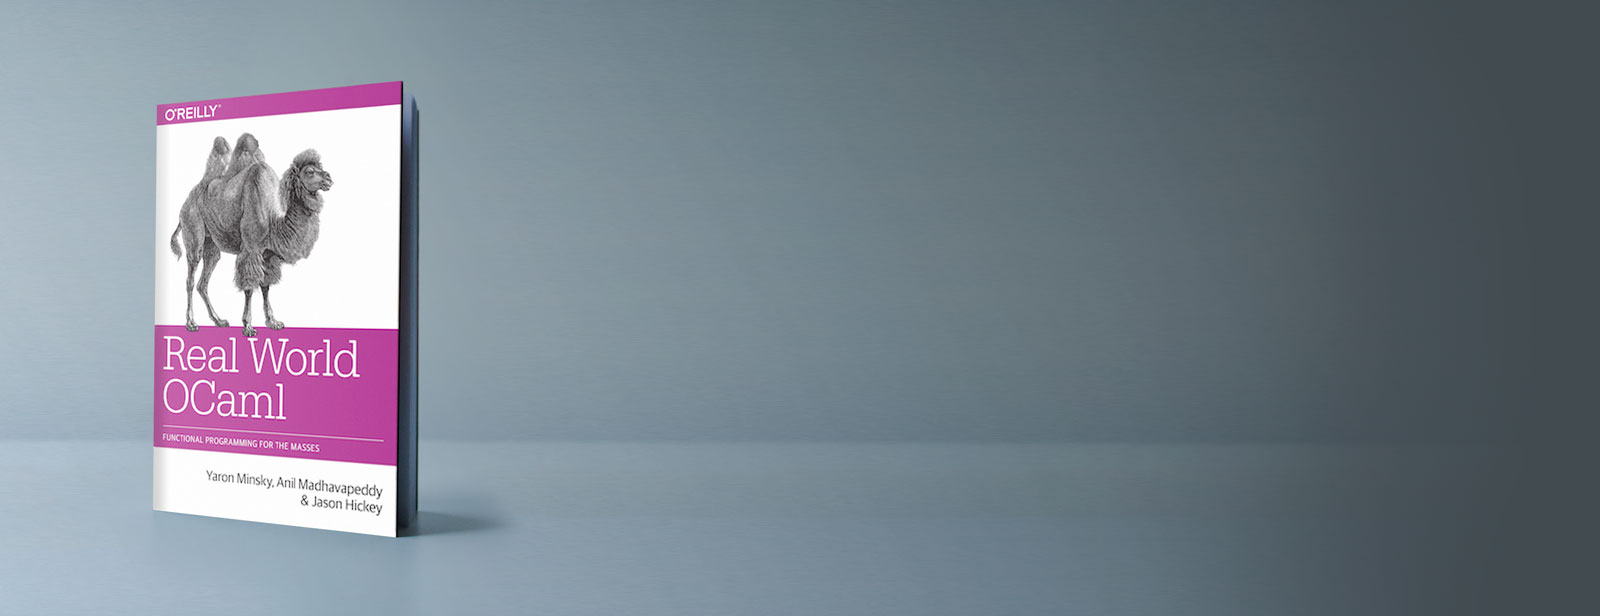
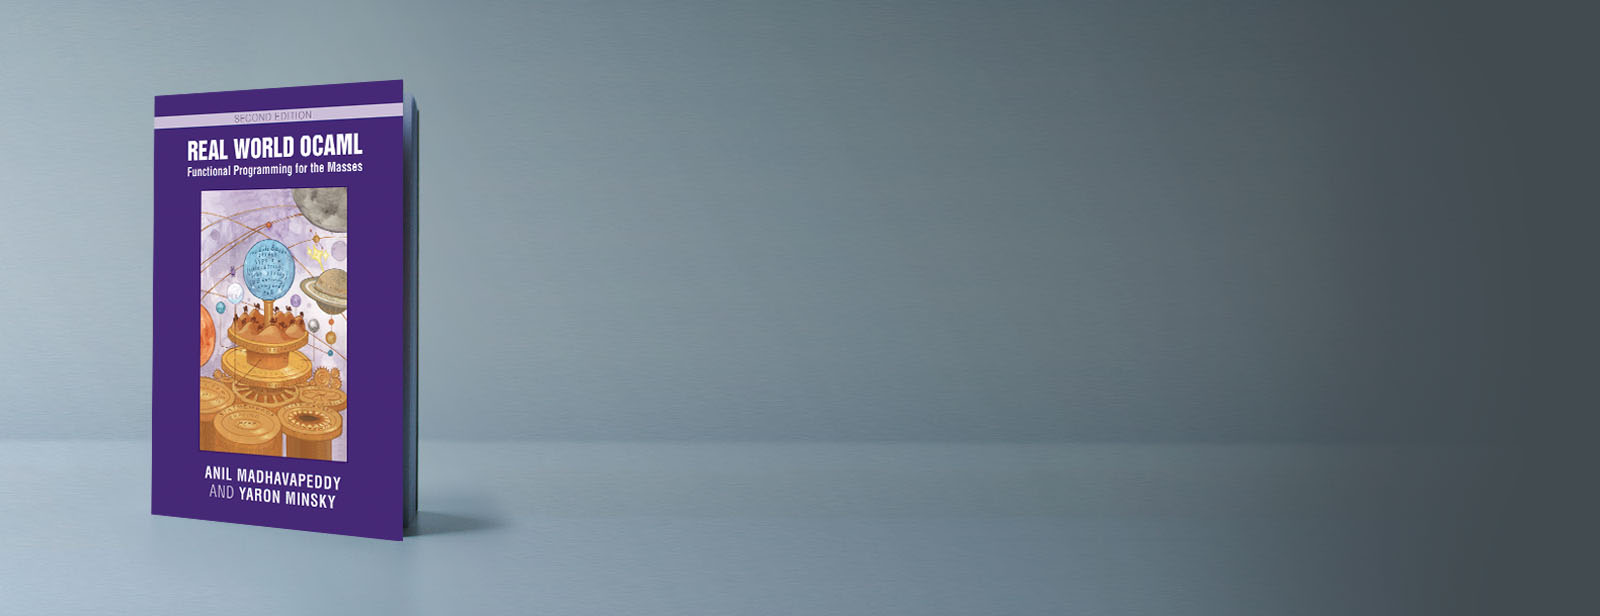
update site for 2nd ed

Changed region(s): [[0.0938, 0.1234, 0.25, 0.8945]]

diff --git a/book/index.html b/book/index.html
@@ -57,15 +57,15 @@
         <div class="author-meta">
           <h4>Anil Madhavapeddy</h4>
 
-          <p>Anil Madhavapeddy is an Associate Professor at the
+          <p>Anil Madhavapeddy is Professor of Planetary Computing at the
            Department of Computer Science and Technology in the
            University of Cambridge, and a Fellow of Pembroke
            College. He has worked in industry (NetApp, Citrix, Intel),
            academia (Cambridge, Imperial, UCLA) and startups
            (XenSource, Unikernel Systems, Docker) over the past two
-           decades. At Cambridge, he directs the OCaml Labs research
-           group which delves into the intersection of functional
-           programming and systems.  He is a long-time maintainer on
+           decades. At Cambridge, is a member of the Energy and Environment
+           Group which delves into the intersection of technology and
+           conservation.  He is a long-time maintainer on
            open-source projects ranging from OCaml, OpenBSD, Xen and
            Docker, and a seasoned entrepreneur who advises companies
            and foundations on technology strategy.</p>
@@ -79,8 +79,8 @@
     <div class="extras-holder">
       <div class="extras">
         <a href="toc.html"><h5>Read Online for Free</h5></a>
-<!--        <a href="#"><h5>Purchase from Amazon</h5></a> -->
-<!--        <a href="#"><h5>Purchase from O'Reilly</h5></a> -->
+        <a href="https://www.cambridge.org/core/books/real-world-ocaml-functional-programming-for-the-masses/052E4BCCB09D56A0FE875DD81B1ED571"><h5>Purchase from Cambridge</h5></a>
+        <a href="https://www.amazon.com/Real-World-OCaml-Functional-Programming/dp/100912580X/"><h5>Purchase from Amazon</h5></a>
       </div>
     </div>
   </div>

diff --git a/static/css/app.css b/static/css/app.css
@@ -1438,7 +1438,7 @@ h6 {
 
  body:after{
      z-index:1000;
-     content: "beta";
+     content: "2nd Ed";
      position: fixed;
      width: 130px;
      height: 40px;
